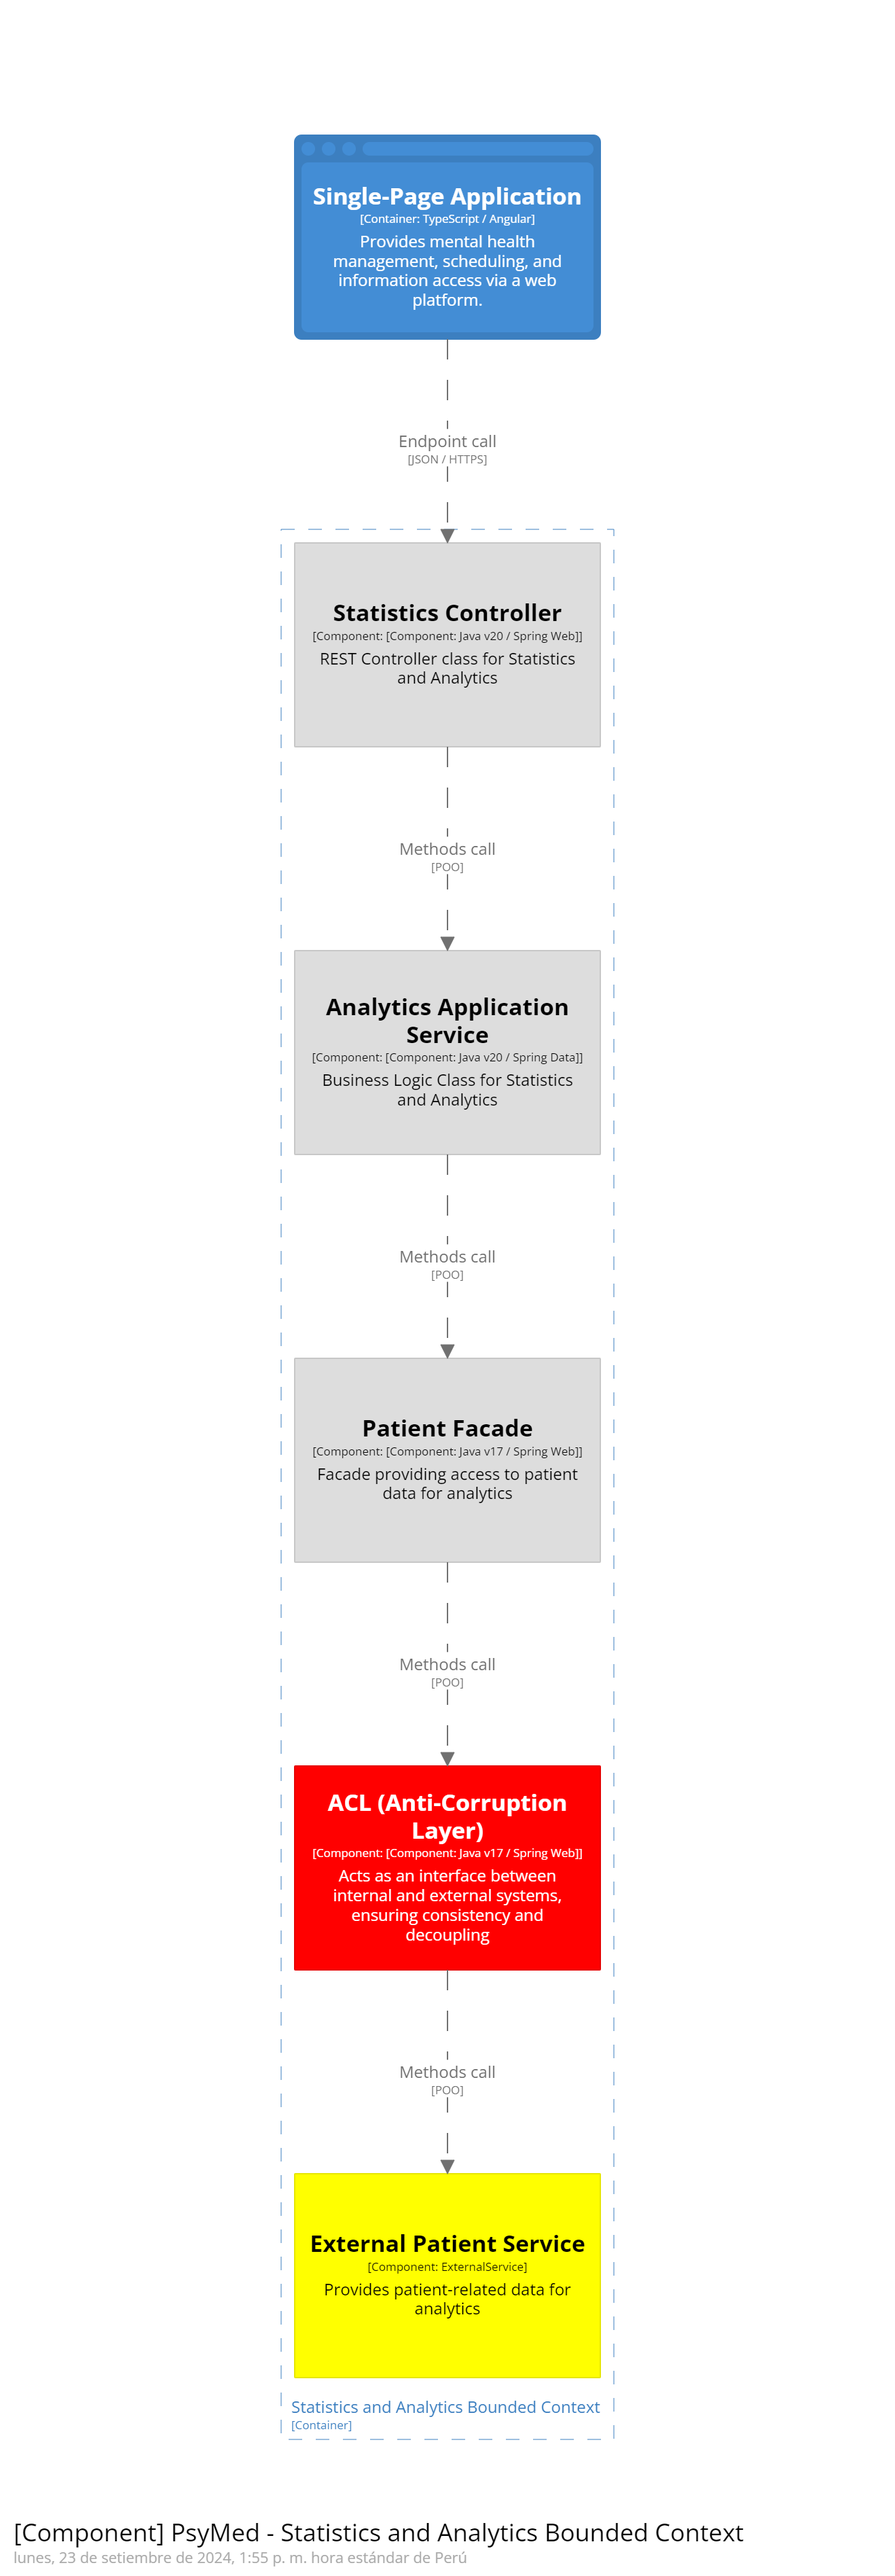
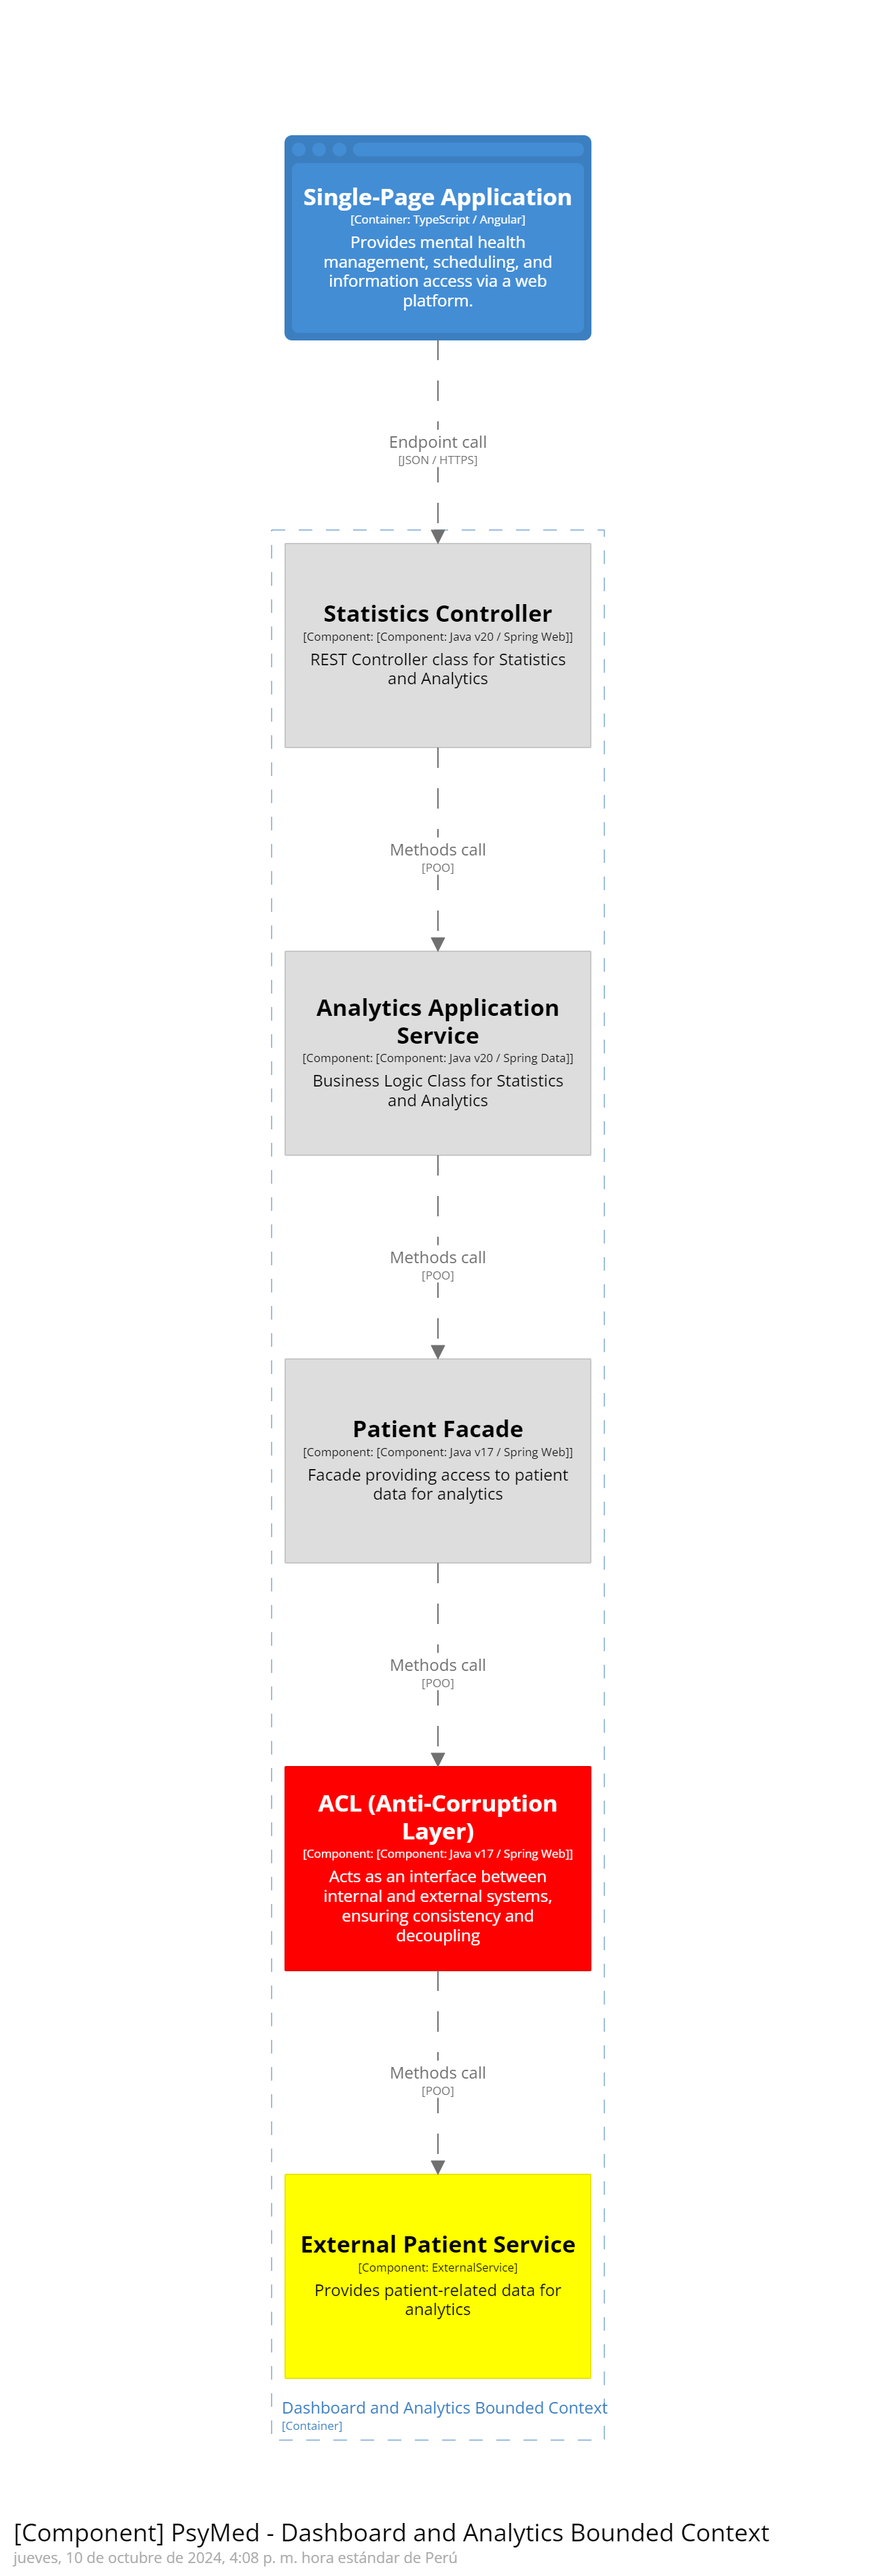
docs: updated name of the bounded contexts

diff --git a/report/chapter4/chapter-4.md b/report/chapter4/chapter-4.md
@@ -495,11 +495,11 @@ Agenda del Paciente: Calendario donde los pacientes pueden ver sus citas program
 
 ![C4Model](/assets/ComponentDiagramAccess.png)
 
-#### Bounded Context Sessions Management Diagram
+#### Bounded Context Sessions Notes Diagram
 
 ![C4Model](/assets/ComponentDiagramSession.png)
 
-#### Bounded Context User Management Diagram
+#### Bounded Context Patient Tracker Diagram
 
 ![C4Model](/assets/ComponentDiagramUserManagement.png)
 
@@ -519,7 +519,7 @@ Agenda del Paciente: Calendario donde los pacientes pueden ver sus citas program
 
 ![C4Model](/assets/ComponentDiagramAppointmentAdministration.png)
 
-#### Bounded Context Statistics and Analysis Diagram
+#### Bounded Context Dashboard and Analysis Diagram
 
 ![C4Model](/assets/ComponentDiagramStatisticsAnalysis.png)
 
